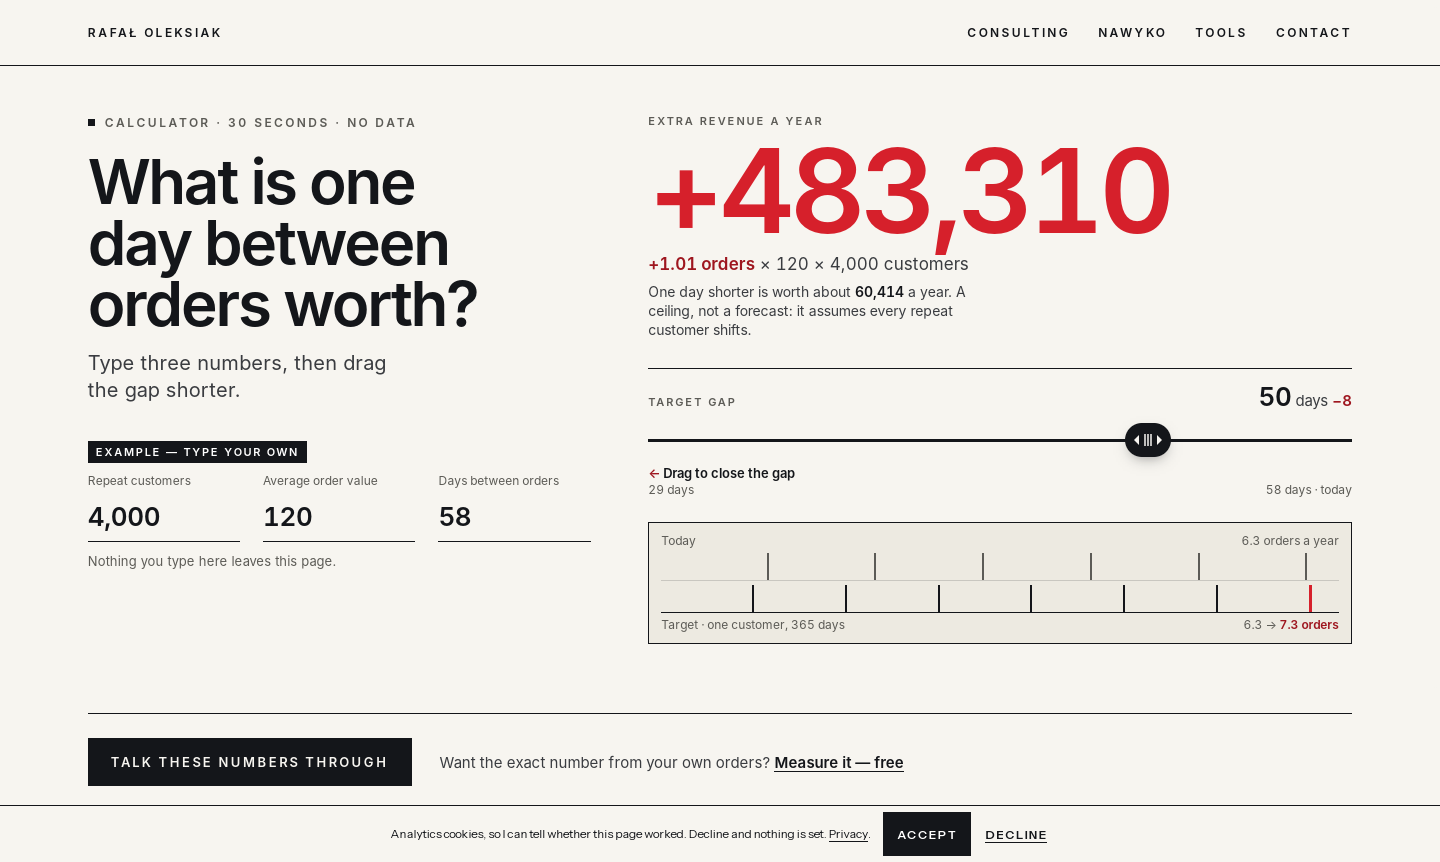
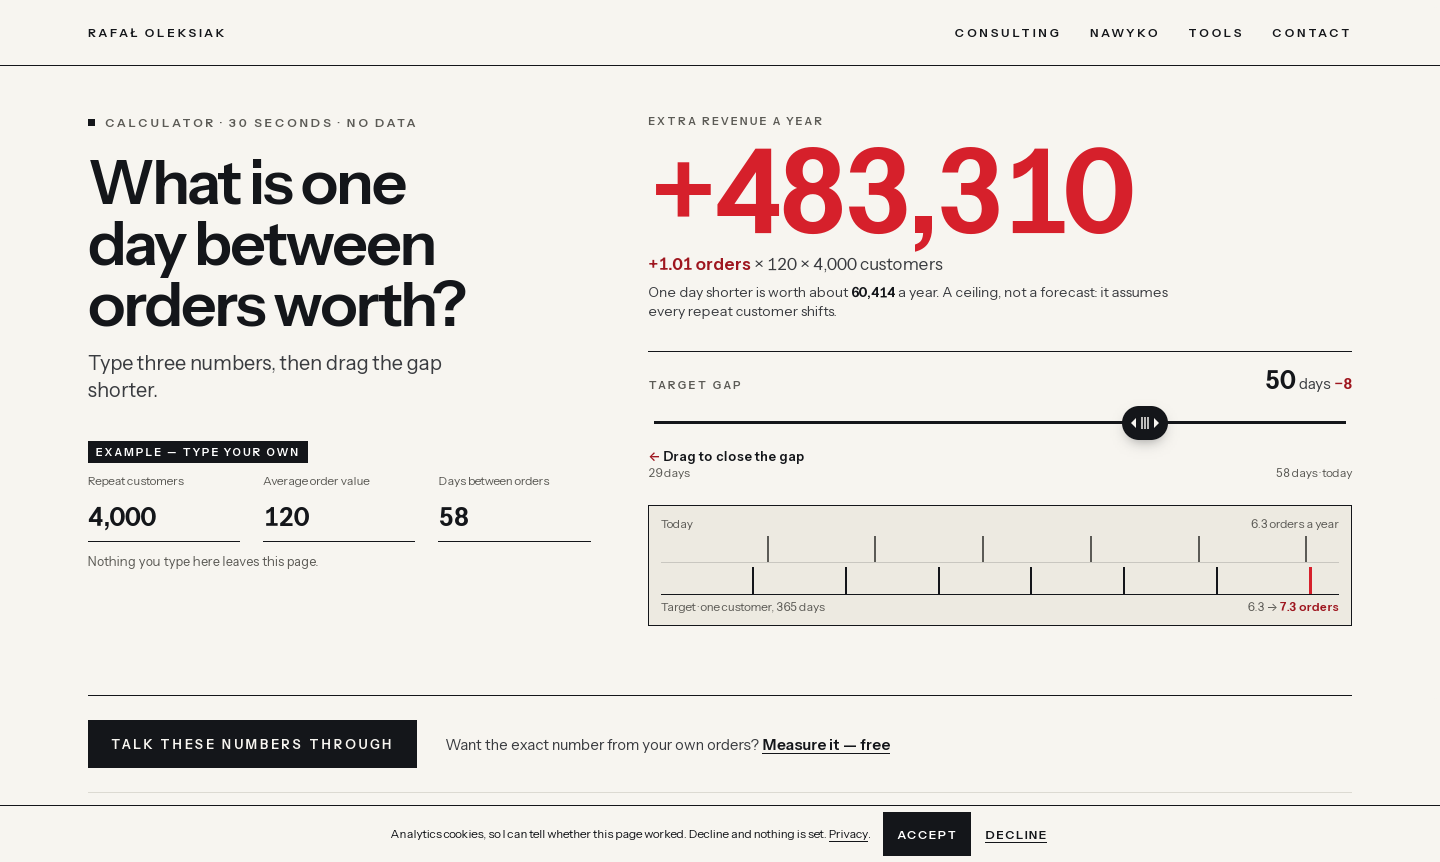
agencja: R6' p4 — css-dropped łapie złe @media, poprawki CSS (/calculator ogranicz ruch, martwy line-height), worktree-builder.sh; STATUS, recenzja 46, lekcja R32

diff --git a/app/calculator/calculator.css b/app/calculator/calculator.css
@@ -129,4 +129,4 @@
 .is-nudge .gc-range::-webkit-slider-thumb{animation:gc-nudge 1.1s cubic-bezier(.45,0,.2,1) 3;}
 .is-nudge .gc-range::-moz-range-thumb{animation:gc-nudge 1.1s cubic-bezier(.45,0,.2,1) 3;}
 @keyframes gc-nudge{50%{transform:translateX(-14px);}}
-@media (prefers-reduced-motion:reduce){.gc-arrow,.gc-range::-webkit-slider-thumb,.gc-range::-moz-range-thumb{animation:none!important;}}
+@media (prefers-reduced-motion:reduce){.gc-arrow,.gc-range::-webkit-slider-thumb{animation:none!important;}.gc-range::-moz-range-thumb{animation:none!important;}}

diff --git a/app/globals.css b/app/globals.css
@@ -87,7 +87,7 @@ section[id] {
   font-family: var(--font-poppins), sans-serif;
   font-weight: 900;  /* Black weight for dramatic impact */
   font-size: clamp(28px, 5vw + 1rem, 72px); /* Fluid: 28px mobile → 72px desktop */
-  line-height: clamp(1.1, 1vw + 1, 1.25);
+  line-height: 1.15; /* R6' q4: clamp(1.1, 1vw + 1, 1.25) mieszal liczbe z dlugoscia i byl odrzucany (css-dropped) */
   letter-spacing: clamp(-0.03em, -0.002vw, -0.01em);
   background: linear-gradient(135deg, #7B2CBF 0%, #0066FF 100%);
   -webkit-background-clip: text;

diff --git a/agencja/recenzje/46-r6q4-review.md b/agencja/recenzje/46-r6q4-review.md
@@ -1,0 +1,40 @@
+# Recenzja 46 — R6' q4 (spec 38): animacja „Pack rhythm", szlif kokpitu, bramka css-dropped
+
+Recenzent niezależny, 25.11.2026. Zakres: `git diff cb47e40..HEAD` + niezacommitowane `app/globals.css`, `app/calculator/calculator.css`.
+Build produkcyjny na :3000 (nie ruszany). Zrzuty: `/tmp/rev46/`. Skrypty pomiarowe: `/tmp/rev46/t1.cjs`, `t2.cjs`, `t3.cjs`.
+
+## Werdykt
+
+**PASS — bez IMPORTANT.** Można commitować. Trzy drobne do rozważenia w następnym przebiegu (najważniejsze: licznik 30→34 na 390 kończy się, zanim telefon jest na ekranie).
+
+## IMPORTANT
+
+Brak.
+
+## Co sprawdzone (dowody)
+
+1. **Animacja `#rhythm`** (pomiar co ~250 ms: liczba kropek `.is-in` / 74, licznik w telefonie):
+   - 1440 przypięty (navigator.webdriver=false, `data-pin` obecne), klik zakładki: 31 → 34 po ~250 ms, kropki 1 → 38 (500 ms) → 74 (800 ms). Ten sam przebieg przy dojściu do odcinka przez przewijanie kółkiem i przy strzałce z klawiatury. Zrzut w połowie: `1440-rhythm-mid.png`, koniec: `1440-rhythm-end.png`.
+   - 390: klik zakładki i wjazd wykresu na ekran przy przewijaniu — ten sam przebieg (`390-rhythm.png`).
+   - reduced motion 1440 i 390: 16 ms po kliknięciu 74/74, licznik 34. Bez JS: 74/74, 34 (`390-nojs-rhythm.png`).
+   - Głęboki link `/nawyko#rhythm` (1440): zakładka 06 wybrana, stan końcowy, wykres na ekranie (`1440-deeplink.png`).
+   - CLS (PerformanceObserver layout-shift) podczas klików zakładek i przewijania: 0 na 1440 i 390. Jedyne przesunięcie 0,0079 (`nk-lessons|nk-pathhead|nk-fine|nk-rail`) padło przy pierwszym `scrollIntoView` do kokpitu, przed klikami — nie z tej zmiany.
+2. **390, nagłówek przed telefonem:** `#rhythm` nagłówek y=445, telefon y=934; „What it never does" nagłówek y=83, telefon y=692 (`390-never.png`).
+3. **1440 Privacy:** „Health data consent · off" w jednej linii (wysokość 13,7 px = 1 × line-height), telefon 325×560 w prawej kolumnie na całą wysokość, pustka pod lewą kolumną zniknęła (`1440-privacy.png`). Najmniejszy tekst w telefonie 8,85 px (etykiety dolnego paska), nagłówek 9,46 px.
+4. **Nic nie usunięte:** diff `app/nawyko` usuwa tylko `CH_OF`, `sw`, `smooth`, `swung/lastCh`, `swStyle`, `data-ch`, `data-swung`, `@property --sw` i reguły `[data-ch="1"]`/`[data-swung]`. Żaden węzeł tekstowy JSX ani sekcja nie znika. „Four steps": przewinięte w 11 pozycjach na 1440 i 390 — akty 0→4 po kolei, telefon i tekst w stałym miejscu, transformacja tożsamościowa (`how-1440-*.png`, `how-390-*.png`). CLS przy przewijaniu sceny: 1440 0,0034, 390 0.
+5. **Personalizacja:** „Zorbix" w konfiguratorze → 16 (1440) / 15 (390) wystąpień, „Tovemi" zero w tekście, `aria-label`, `alt`, `title` i tytule dokumentu (po przejściu przez całą stronę i wszystkie zakładki).
+6. **Klawiatura:** strzałki przełączają zakładki i przenoszą fokus; obrys fokusu 3 px solid, jasny na ciemnym tle kokpitu (`1440-kbd.png`). Strzałka na „Pack rhythm" odpala animację.
+7. **Bramki:** `css-dropped-selftest.sh` PASS (5/5), `clsscroll-selftest.sh` PASS (w tym 3 przypadki mediany). `css-dropped.mjs` na repo: fail=0, info=9 (reguły `::-moz-` dla Firefoksa), 8383 deklaracji, 21 plików. Łapie `font:600 26px/1 inherit` także w regule zagnieżdżonej w `@media` (sprawdzone na wzorcu). `.module.css` jest w zakresie (`app/**/*.css` obejmuje `blog.module.css`).
+8. **/calculator, 390, reduced motion:** brak animacji (`getAnimations()` puste, `.gc-arrow` animation-name none). Bez reduced motion wymuszone `.is-nudge` daje `gc-arrow` — reguła działa. Poprawka (rozdzielenie listy z `::-moz-range-thumb`) jest słuszna: stara lista była w Chromium odrzucana w całości, więc reduced motion nie wyłączało tam strzałki.
+9. **WebKit:** 390 (okno WebKitGTK raportuje 447 px) i 1440 — PASS, najwęższy widoczny telefon 195 px (`wk-strip.png`, `wk1440-grid.png`). Skrypt przy 390 kończy się kodem 2 mimo linii PASS (prawdopodobnie zamykanie xvfb/sterownika) — warto sprawdzić, czy `gates.sh` traktuje to jako FAIL.
+
+`globals.css`: zmieniony `line-height` jest w `.hero-headline`, której nie używa żaden znacznik (tylko `globals.css` i `critical.css`) — zmiana bez skutku wizualnego, poza zakresem spec, ale nieszkodliwa.
+
+Rubryka: oryginalność i żywość — animacja wnosi ruch w statyczny dotąd panel, bez kiczu (kropki dosypywane, bez fajerwerków). Marka demo „Tovemi" opisana jako wymyślona; GENACTIV nie występuje na `/nawyko`. Nowych liczb w treści brak (34/30 z istniejących stałych, wykres oznaczony „Illustration · invented data").
+
+## Drobne
+
+1. **Licznik 30→34 na 390 jest niewidoczny.** Animację startuje wjazd wykresu (35% na ekranie), a telefon stoi ~490 px pod wykresem; licznik kończy się po ~250 ms (ease na 0,45 z 1,2 s), więc gdy telefon wjedzie, pokazuje już 34. Na 1440 licznik też kończy się, zanim kropki zaczną się dosypywać — całość trwa realnie ~0,9 s, nie 1,2 s. Propozycja: osobny wyzwalacz licznika na widoczność telefonu albo licznik rozłożony na cały czas.
+2. **Privacy 1440:** w telefonie ~200 px pustego ekranu między „Streak" a przyciskiem „Agree and turn on" (`1440-privacy.png`); etykiety paska 8,85 px — na granicy czytelności.
+3. **Dziury `css-dropped.mjs` (fałszywie negatywne):** nie sprawdza warunków `@media`/`@container`/`@supports` — `@media (max-width:860){…}` (bez jednostki) przechodzi, a Chromium traktuje go jako `not all` i cały blok jest martwy; wartości z `var()` zawsze przechodzą (`font:600 26px/1 var(--f)`); `:is(.b,::-moz-…)` przechodzi; poza zakresem CSS spoza `app/` i style inline w TSX. Fałszywie pozytywne: `:global(...)` w `.module.css` dałoby FAIL (dziś nieużywane). Najtańsza poprawka pierwszej dziury: `matchMedia(params).media !== 'not all'` dla każdego `@media`.
+4. `webkit-check.py` przy 390: kod wyjścia 2 mimo „PASS" — do sprawdzenia w `gates.sh`.

diff --git a/agencja/postep-uczenia.md b/agencja/postep-uczenia.md
@@ -60,3 +60,5 @@ Jedna linia na przebieg: data · czego się nauczyliśmy (źródło) · co konkr
 - 24.11 23:25 · Retro: jednorazowy FAIL clsscroll-1440 tylko na scalonym buildzie → reguła R30.3 (3 przebiegi CLS przy przewijaniu); konflikt importu dwóch budujących → reguła R30.2.
 - 25.11 00:15 (runda 6', przebieg 3) · Baymard „Avoid Horizontal Tabs” (https://baymard.com/research-articles/avoid-horizontal-tabs) · Zmiana: rząd zakładek kokpitu na 390 pokazuje połowę następnej + przycisk „›”; propozycja paneli jeden pod drugim → decyzja R6'q3-B.
 - 25.11 00:15 · Retro: niepoprawny skrót CSS złapał recenzent, nie bramka → R31, test walidacji CSS w kolejce R6'-N3 pkt 0.
+- 25.11 11:25 (runda 6', przebieg 4) · W3C Media Queries 3 §3.1 + MQ4 general-enclosed (https://www.w3.org/TR/mediaqueries-3/) · Zmiana: `css-dropped` łapie zapytania `@media` z nieznaną cechą (np. liczba bez jednostki), przypadek `mqbad.css` w samoteście.
+- 25.11 11:25 · Retro: R31.3 (symlink node_modules) powtórzony, bo zlecenie powstało przed lekturą lekcji → `scripts/worktree-builder.sh`; R31 (CSS odrzucany po cichu) → bramka `css-dropped`, pierwsze uruchomienie: 2 stare błędy, w tym `/calculator` przy „ogranicz ruch”.

diff --git a/agencja/wiedza/kolejka.md b/agencja/wiedza/kolejka.md
@@ -27,3 +27,4 @@ Każda porcja: źródło (link + data) → jedna konkretna zmiana na stronie alb
 17. ~~Bento — LogRocket „Bento grids UX” (2025-01-24)~~ (24.11 R5 p2 cz. 2: portfel jako bento, skutek każdej kontrolki w tym samym kaflu). ~~Mocniejsze źródło: NN/g „Cards: UI-Component Definition”~~ (24.11 R5 p3 cz. 1: lekcje jako lista-sekwencja, cała karta klikalna). Zostaje: emocja + dowód (NN/g „aesthetic-usability effect”).
 18. ~~Komponenty — NN/g „Tabs, Used Right”~~ (24.11 R6 p1: krótkie etykiety zakładek kokpitu, sygnał przewijania rzędu na telefonie). Przełączanie zakładek przewijaniem: ~~NN/g „Scrolljacking 101”~~ (24.11 R6 p2: krótki tor, postęp, klik = skok). Zostaje: oczekiwania użytkownika (czy zakładka zmieniana przewijaniem jest jeszcze zakładką — szukać źródła przed p2).
 - [x] 24.11 22:30 NN/g „Tabs Used Right” — zastosowane w kokpicie For you (R6' p1)
+- ~~Poprawność CSS — W3C Media Queries 3 §3.1 (złe zapytanie = martwy blok)~~ (25.11 R6' p4: przypadek `@media` w bramce `css-dropped`)
